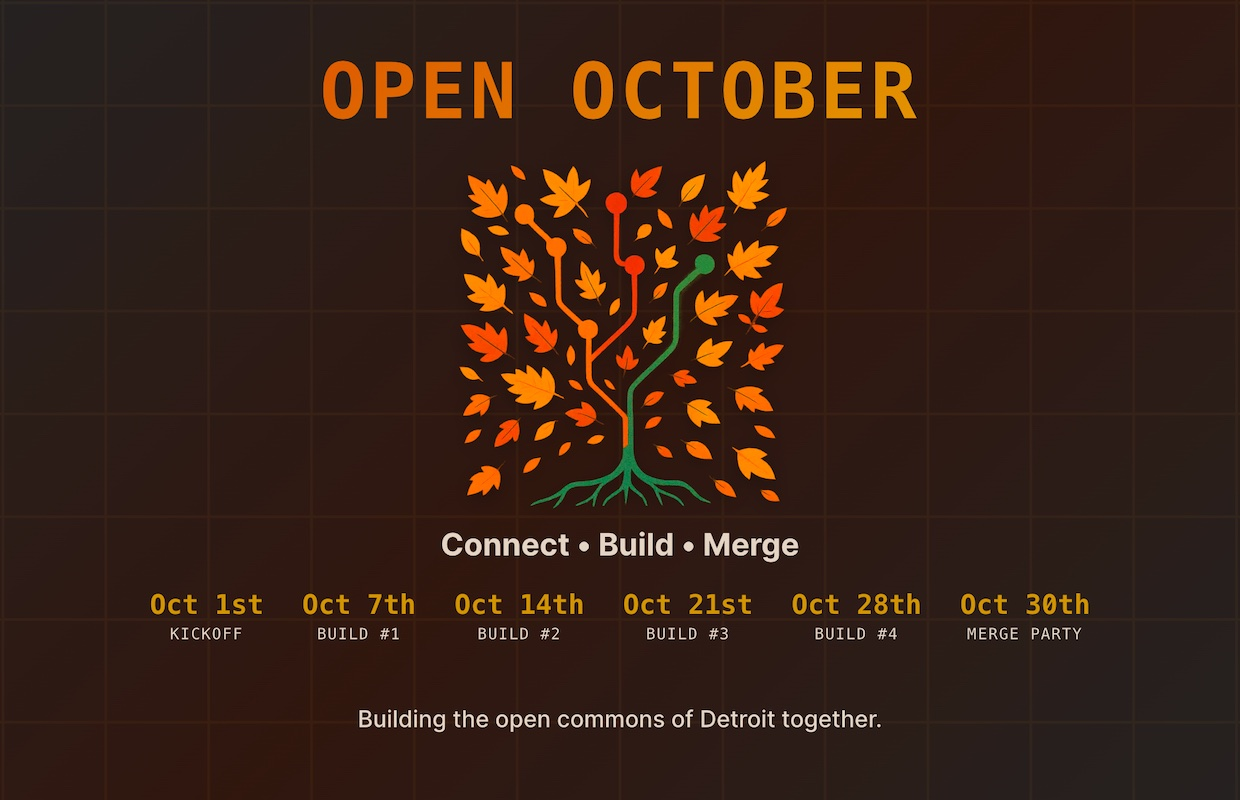
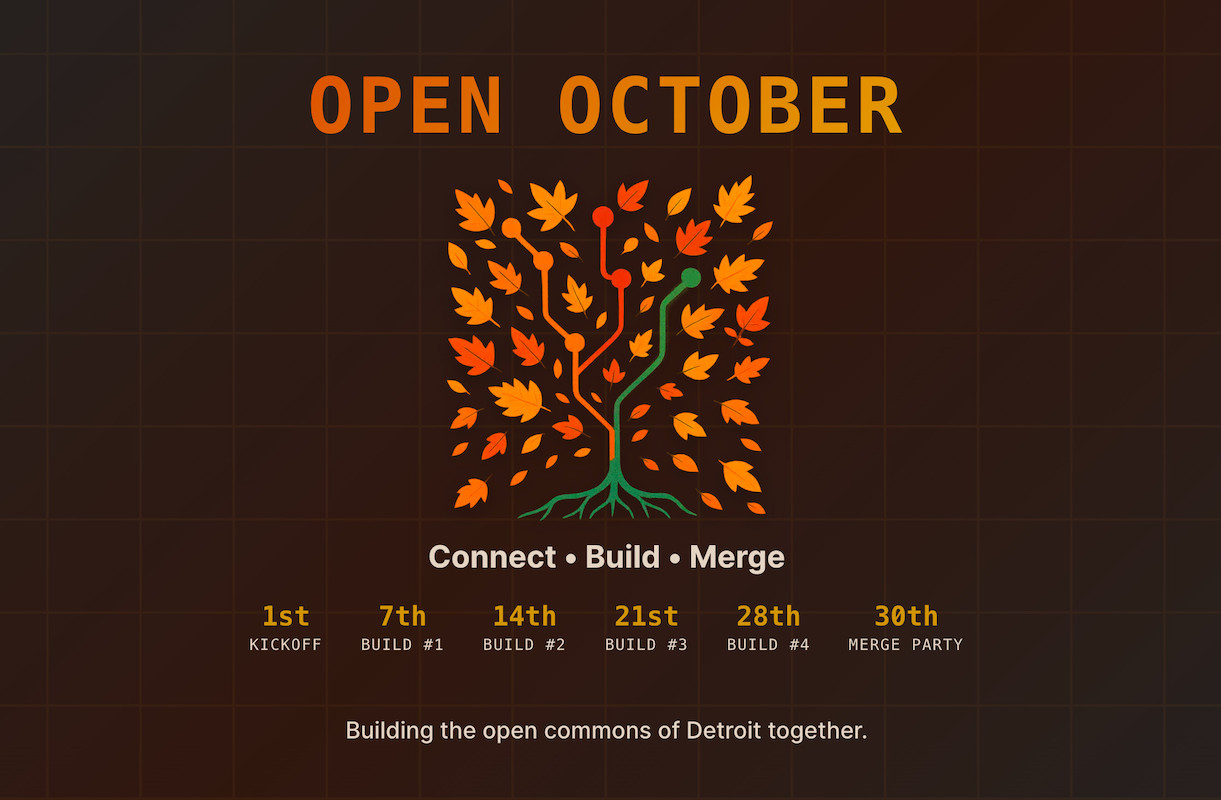
Update Open October featured image and styling adjustments

Changed region(s): [[0.1245, 0.0625, 0.8714, 0.8125], [0.2801, 0.875, 0.7158, 0.9375]]

diff --git a/src/pages/open-october.tsx b/src/pages/open-october.tsx
@@ -612,6 +612,10 @@ const HeroSubHeadlineStyled = styled(SubHeadline)`
   margin-bottom: 2rem;
   font-weight: 500;
   font-size: 1.2rem;
+  @media (max-width: 768px) {
+    font-size: 1.4rem;
+    margin-top: 2rem;
+  }
 `;
 
 
@@ -777,27 +781,27 @@ export default function OpenOctober() {
 
           <HeroDatesContainer>
             <HeroDateItem>
-              <HeroDateNumber>Oct 1st</HeroDateNumber>
+              <HeroDateNumber>1st</HeroDateNumber>
               <HeroDateLabel>KICKOFF</HeroDateLabel>
             </HeroDateItem>
             <HeroDateItem>
-              <HeroDateNumber>Oct 7th</HeroDateNumber>
+              <HeroDateNumber>7th</HeroDateNumber>
               <HeroDateLabel>BUILD #1</HeroDateLabel>
             </HeroDateItem>
             <HeroDateItem>
-              <HeroDateNumber>Oct 14th</HeroDateNumber>
+              <HeroDateNumber>14th</HeroDateNumber>
               <HeroDateLabel>BUILD #2</HeroDateLabel>
             </HeroDateItem>
             <HeroDateItem>
-              <HeroDateNumber>Oct 21st</HeroDateNumber>
+              <HeroDateNumber>21st</HeroDateNumber>
               <HeroDateLabel>BUILD #3</HeroDateLabel>
             </HeroDateItem>
             <HeroDateItem>
-              <HeroDateNumber>Oct 28th</HeroDateNumber>
+              <HeroDateNumber>28th</HeroDateNumber>
               <HeroDateLabel>BUILD #4</HeroDateLabel>
             </HeroDateItem>
             <HeroDateItem>
-              <HeroDateNumber>Oct 30th</HeroDateNumber>
+              <HeroDateNumber>30th</HeroDateNumber>
               <HeroDateLabel>MERGE PARTY</HeroDateLabel>
             </HeroDateItem>
           </HeroDatesContainer>
